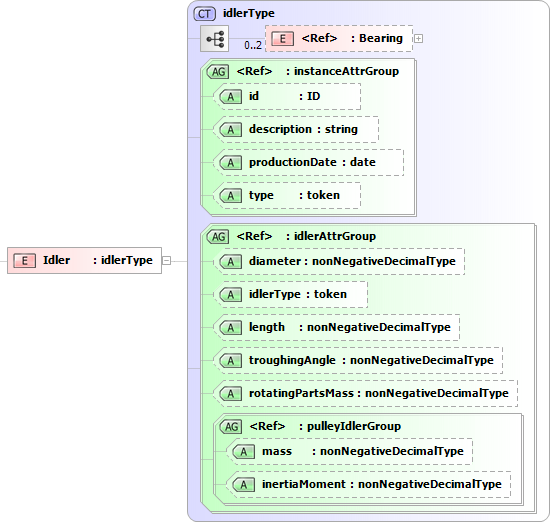
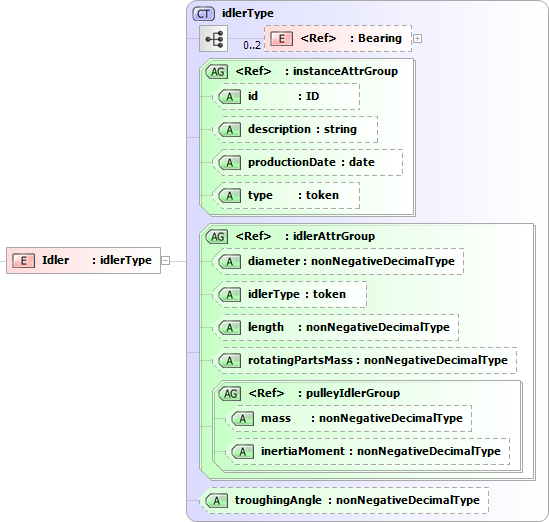
Kosz i materiał

diff --git a/doc/convml.tex b/doc/convml.tex
@@ -572,6 +572,50 @@ jedynie jako podelement elementu Pulley (Bębna).
 \subsubsection{Układ pneumatyczny <PneumaticSystem>}
 
 
+\subsection{Kosz zasypowy <Chute>}
+Kosz zasypowy jako element trasy wyznacza miejsce załadunku materiału na przenośnik taśmowy.
+
+\begin{figure}[h]
+  \centering
+  \includegraphics[width=0.6\textwidth]{png/liquid/Chute}
+  \caption{Definicja elementu Chute}
+  \label{fig:chute-xsd}
+\end{figure}
+
+\paragraph{Definicje atrybutów}
+\begin{description}
+\item[horizontalSpeed] Składowa prędkości taśmy [m/s]
+\item[skirtMaterialFriction] Współczynnik tarcia pomiędzy urobkiem a ograniczeniami bocznymi
+\item[capacity] Wydajność punktu załadowczego [t/h]
+\item[fallHeight] Wysokość spadku materiału na taśmę [mm]
+\item[skirtLength] Długość ograniczeń bocznych [m]
+\item[skirtWidth] Szerokość ograniczeń bocznych [m]
+\end{description}
+
+
+\subsubsection{Materiał <Material>}
+Element opisujący właściwości materiału podawanego na kosz zasypowy.
+
+\begin{figure}[h]
+  \centering
+  \includegraphics[width=0.6\textwidth]{png/liquid/Material}
+  \caption{Definicja elementu Material}
+  \label{fig:material-xsd}
+\end{figure}
+
+\paragraph{Definicje atrybutów}
+\begin{description}
+\item[name] Nazwa materiału
+\item[density] Gęstość nasypowa materiału transportowanego - $\gamma$ [$kg/m^3$]
+\item[surchargeAngle] Kąt usypu materiału na taśmie - $\rho$ [$^\circ$]
+\item[reposeAngle] Kąt tarcia wewnętrznego [$^\circ$]
+\item[lumpSizeMaximum] Maksymalny wymiar brył [mm]
+\item[lumpPercTopSize] Procentowy udział brył [\%]
+\item[materialBeltFriction] Współczynni tarcia urobek-taśma
+\item[temperature] Temperatura materiału [$^\circ$C]
+\end{description}
+
+
 \subsection{Rozładunek <Unload>}
 
 
@@ -597,7 +641,7 @@ pracują w zestawach (IdlerSet).
 \item[diameter] Średnica krążnika [mm]
 \item[idlerType] Typ krążnika: 1 - z pierścieniami, 2 - gładki
 \item[length] Długość płaszcza krążnika [mm]
-\item[troughingAngle] Kąt nachylenia krążników bocznych - $\beta$ [$^\circ$] % Powinno być cechą zestawu
+\item[troughingAngle] Kąt nachylenia krążników bocznych - $\beta$ [$^\circ$]
 \item[rotatingPartsMass] Masa części obrotowych krążnika [kg]
 \item[mass] Masa [kg]
 \item[inertiaMoment] Moment bezwładności - I [$kg*m^2$]
@@ -647,8 +691,6 @@ braku współrzędnej X, zestawy są rozmieszczane w równej odległości na dł
 
 
 \subsection{Pozostałe}
-tutaj opisać: Urządzenie dodatkowe, Wyposażenie elektryczne urządzenia, Układ
-chłodzenia
 
 \subsubsection{Układ chłodzenia <CoolingSystem>}
 
